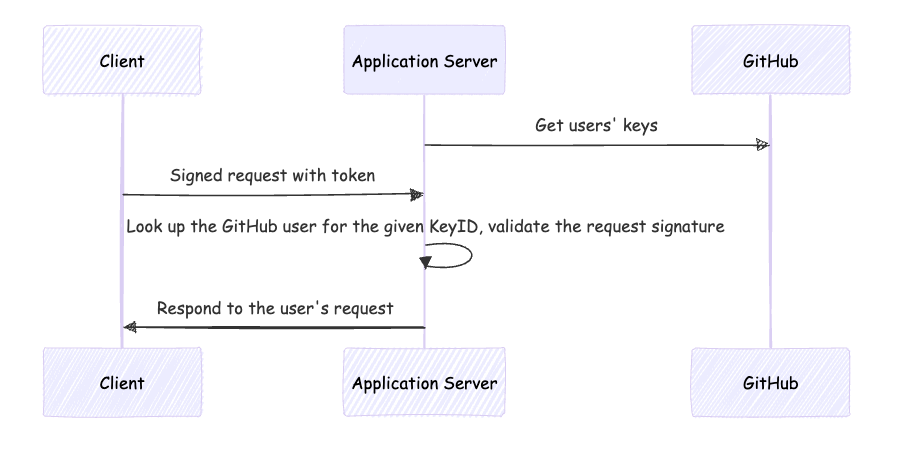
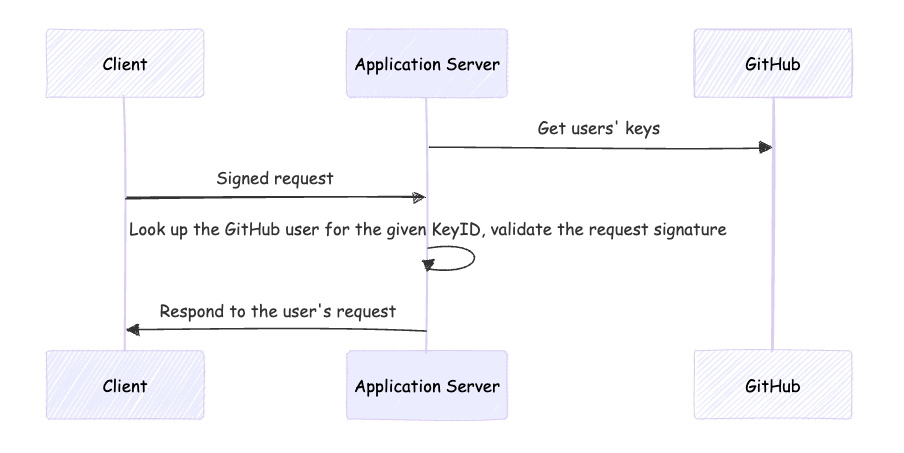
Diagram fixes

diff --git a/docs/img/k8s-proxy-sequence.mermaid.md b/docs/img/k8s-proxy-sequence.mermaid.md
@@ -4,7 +4,7 @@ sequenceDiagram
     participant proxy as Proxy Server
     participant github as GitHub
     proxy->>github: Get users' keys
-    client->>proxy: Signed request with token
+    client->>proxy: Signed request
     proxy->>proxy: Look up the GitHub user for the given KeyID, validate the request signature
     participant k8s as Kubernetes
     proxy->>k8s: Add X-Remote-User and X-Remote-Group headers

diff --git a/docs/img/gh-sequence.mermaid.md b/docs/img/gh-sequence.mermaid.md
@@ -4,7 +4,7 @@ sequenceDiagram
     participant appserv as Application Server
     participant github as GitHub
     appserv->>github: Get users' keys
-    client->>appserv: Signed request with token
+    client->>appserv: Signed request
     appserv->>appserv: Look up the GitHub user for the given KeyID, validate the request signature
     appserv->>client: Respond to the user's request
 ```
